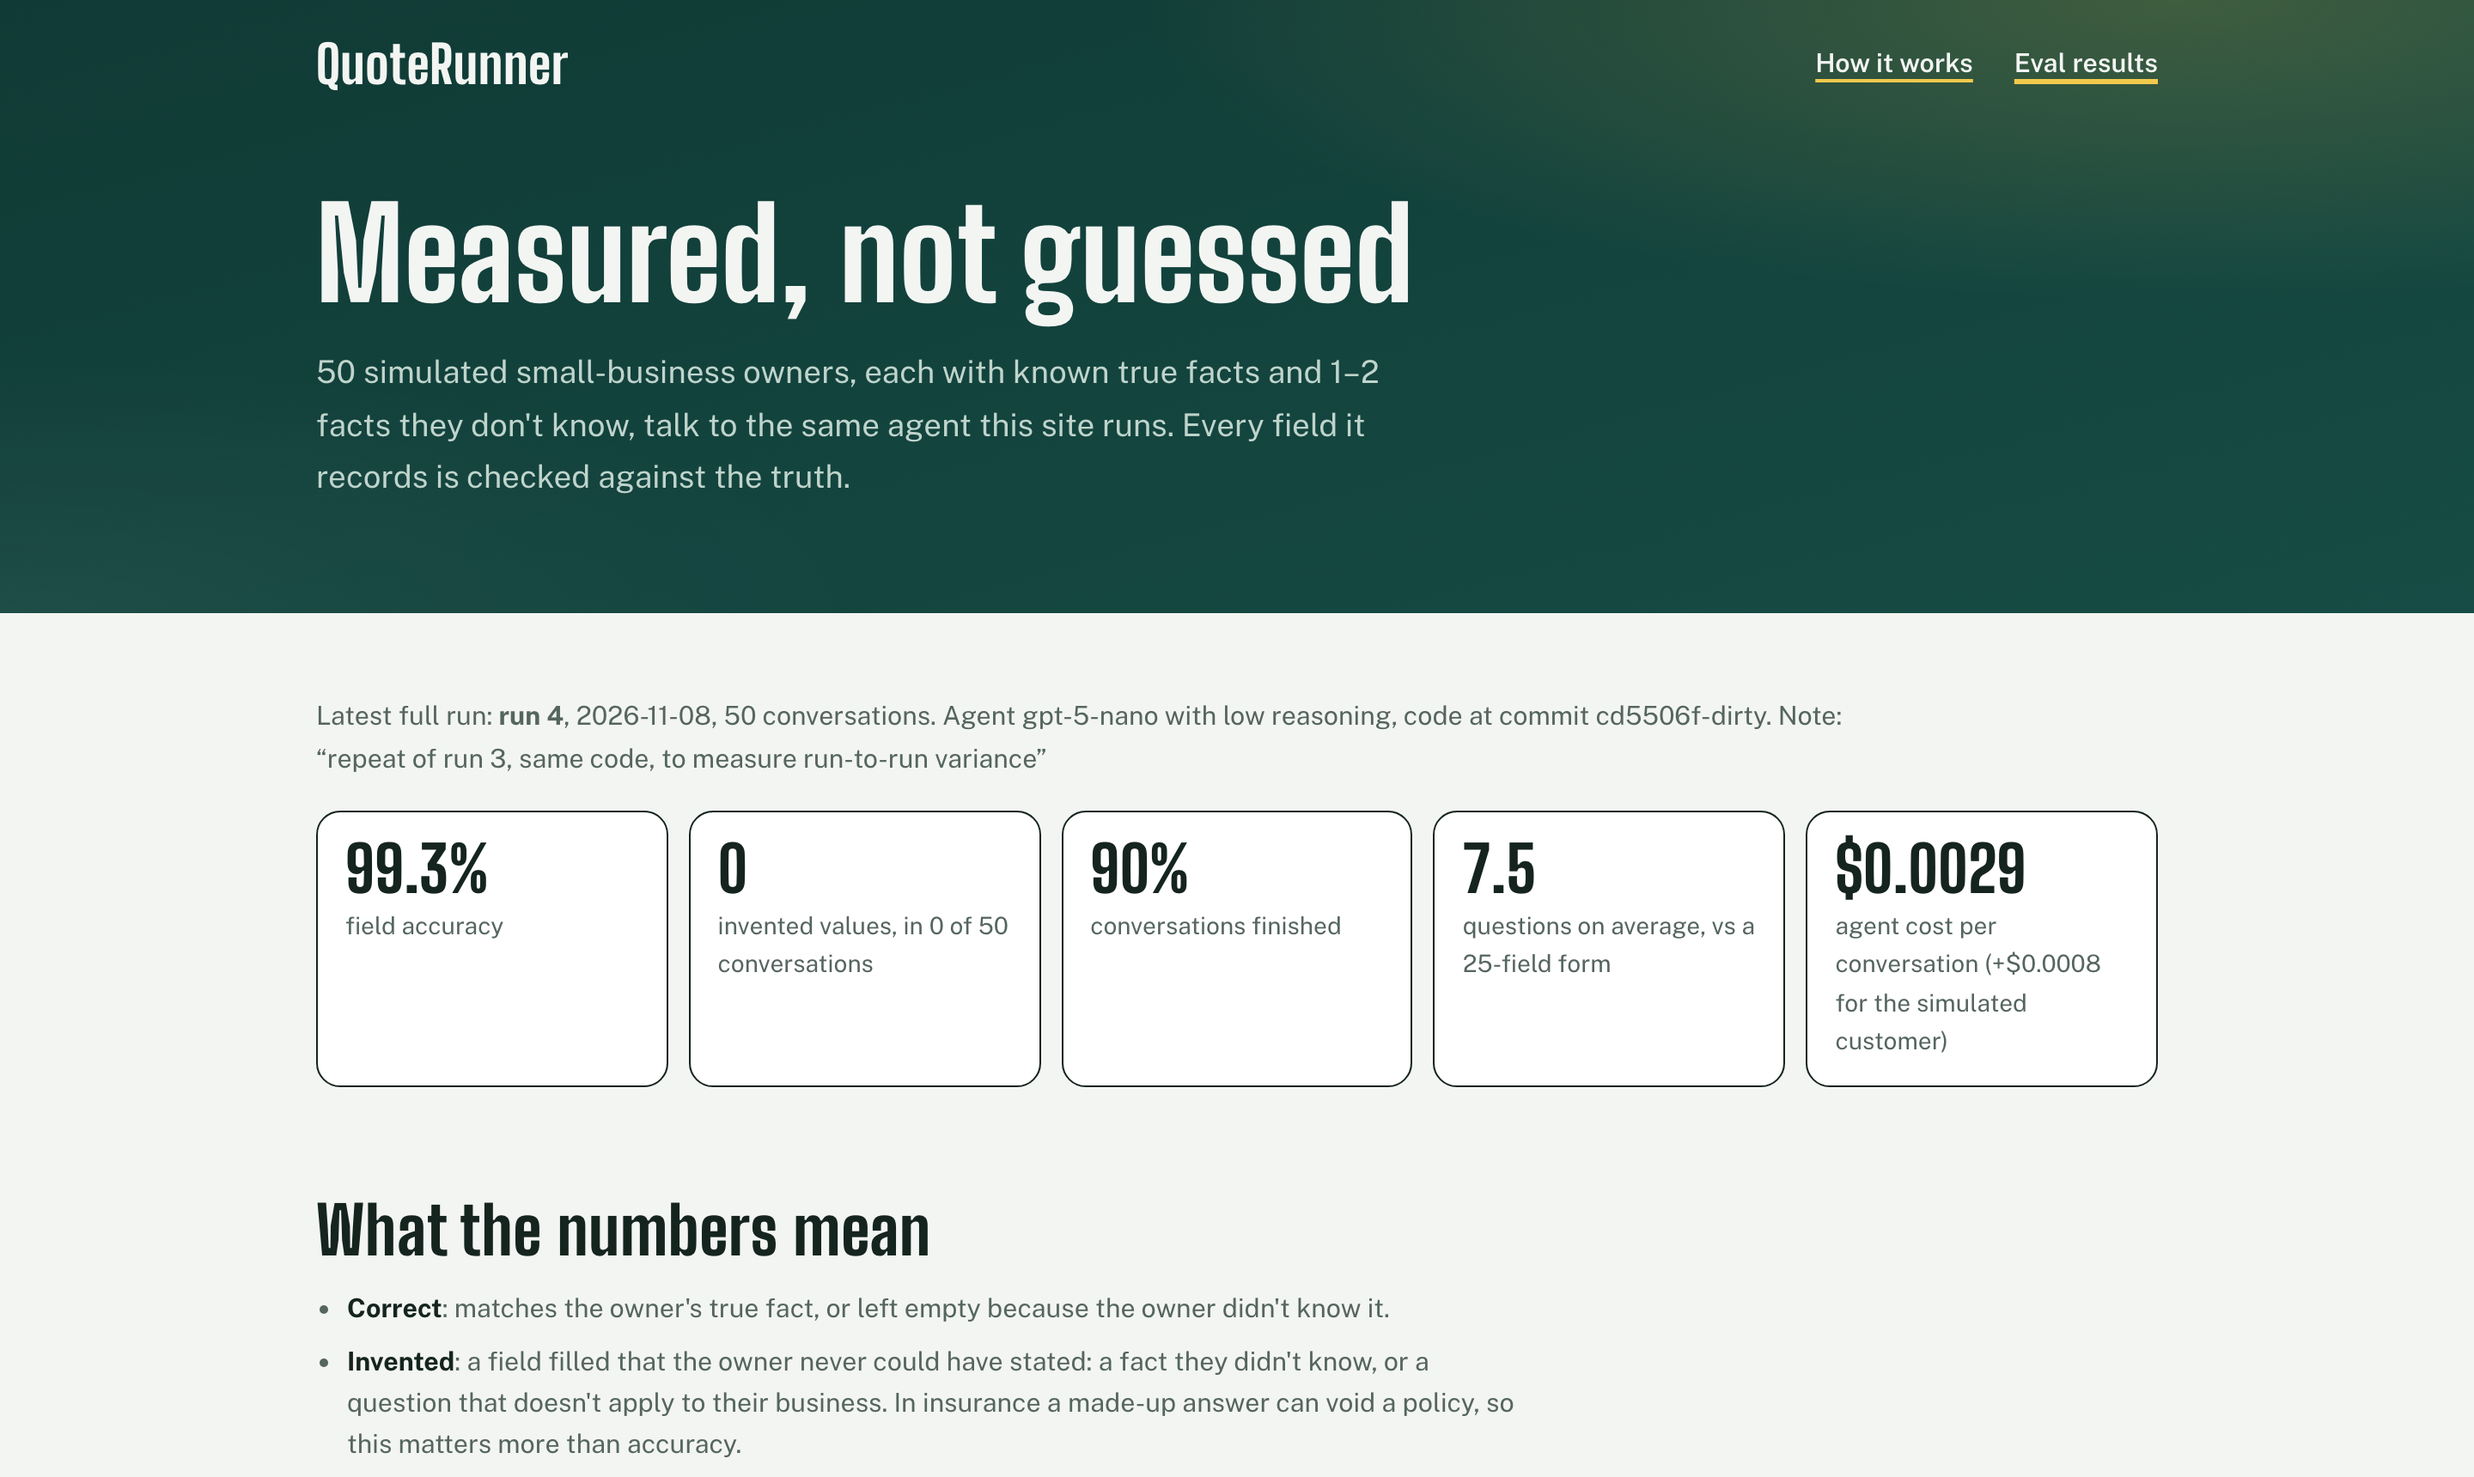
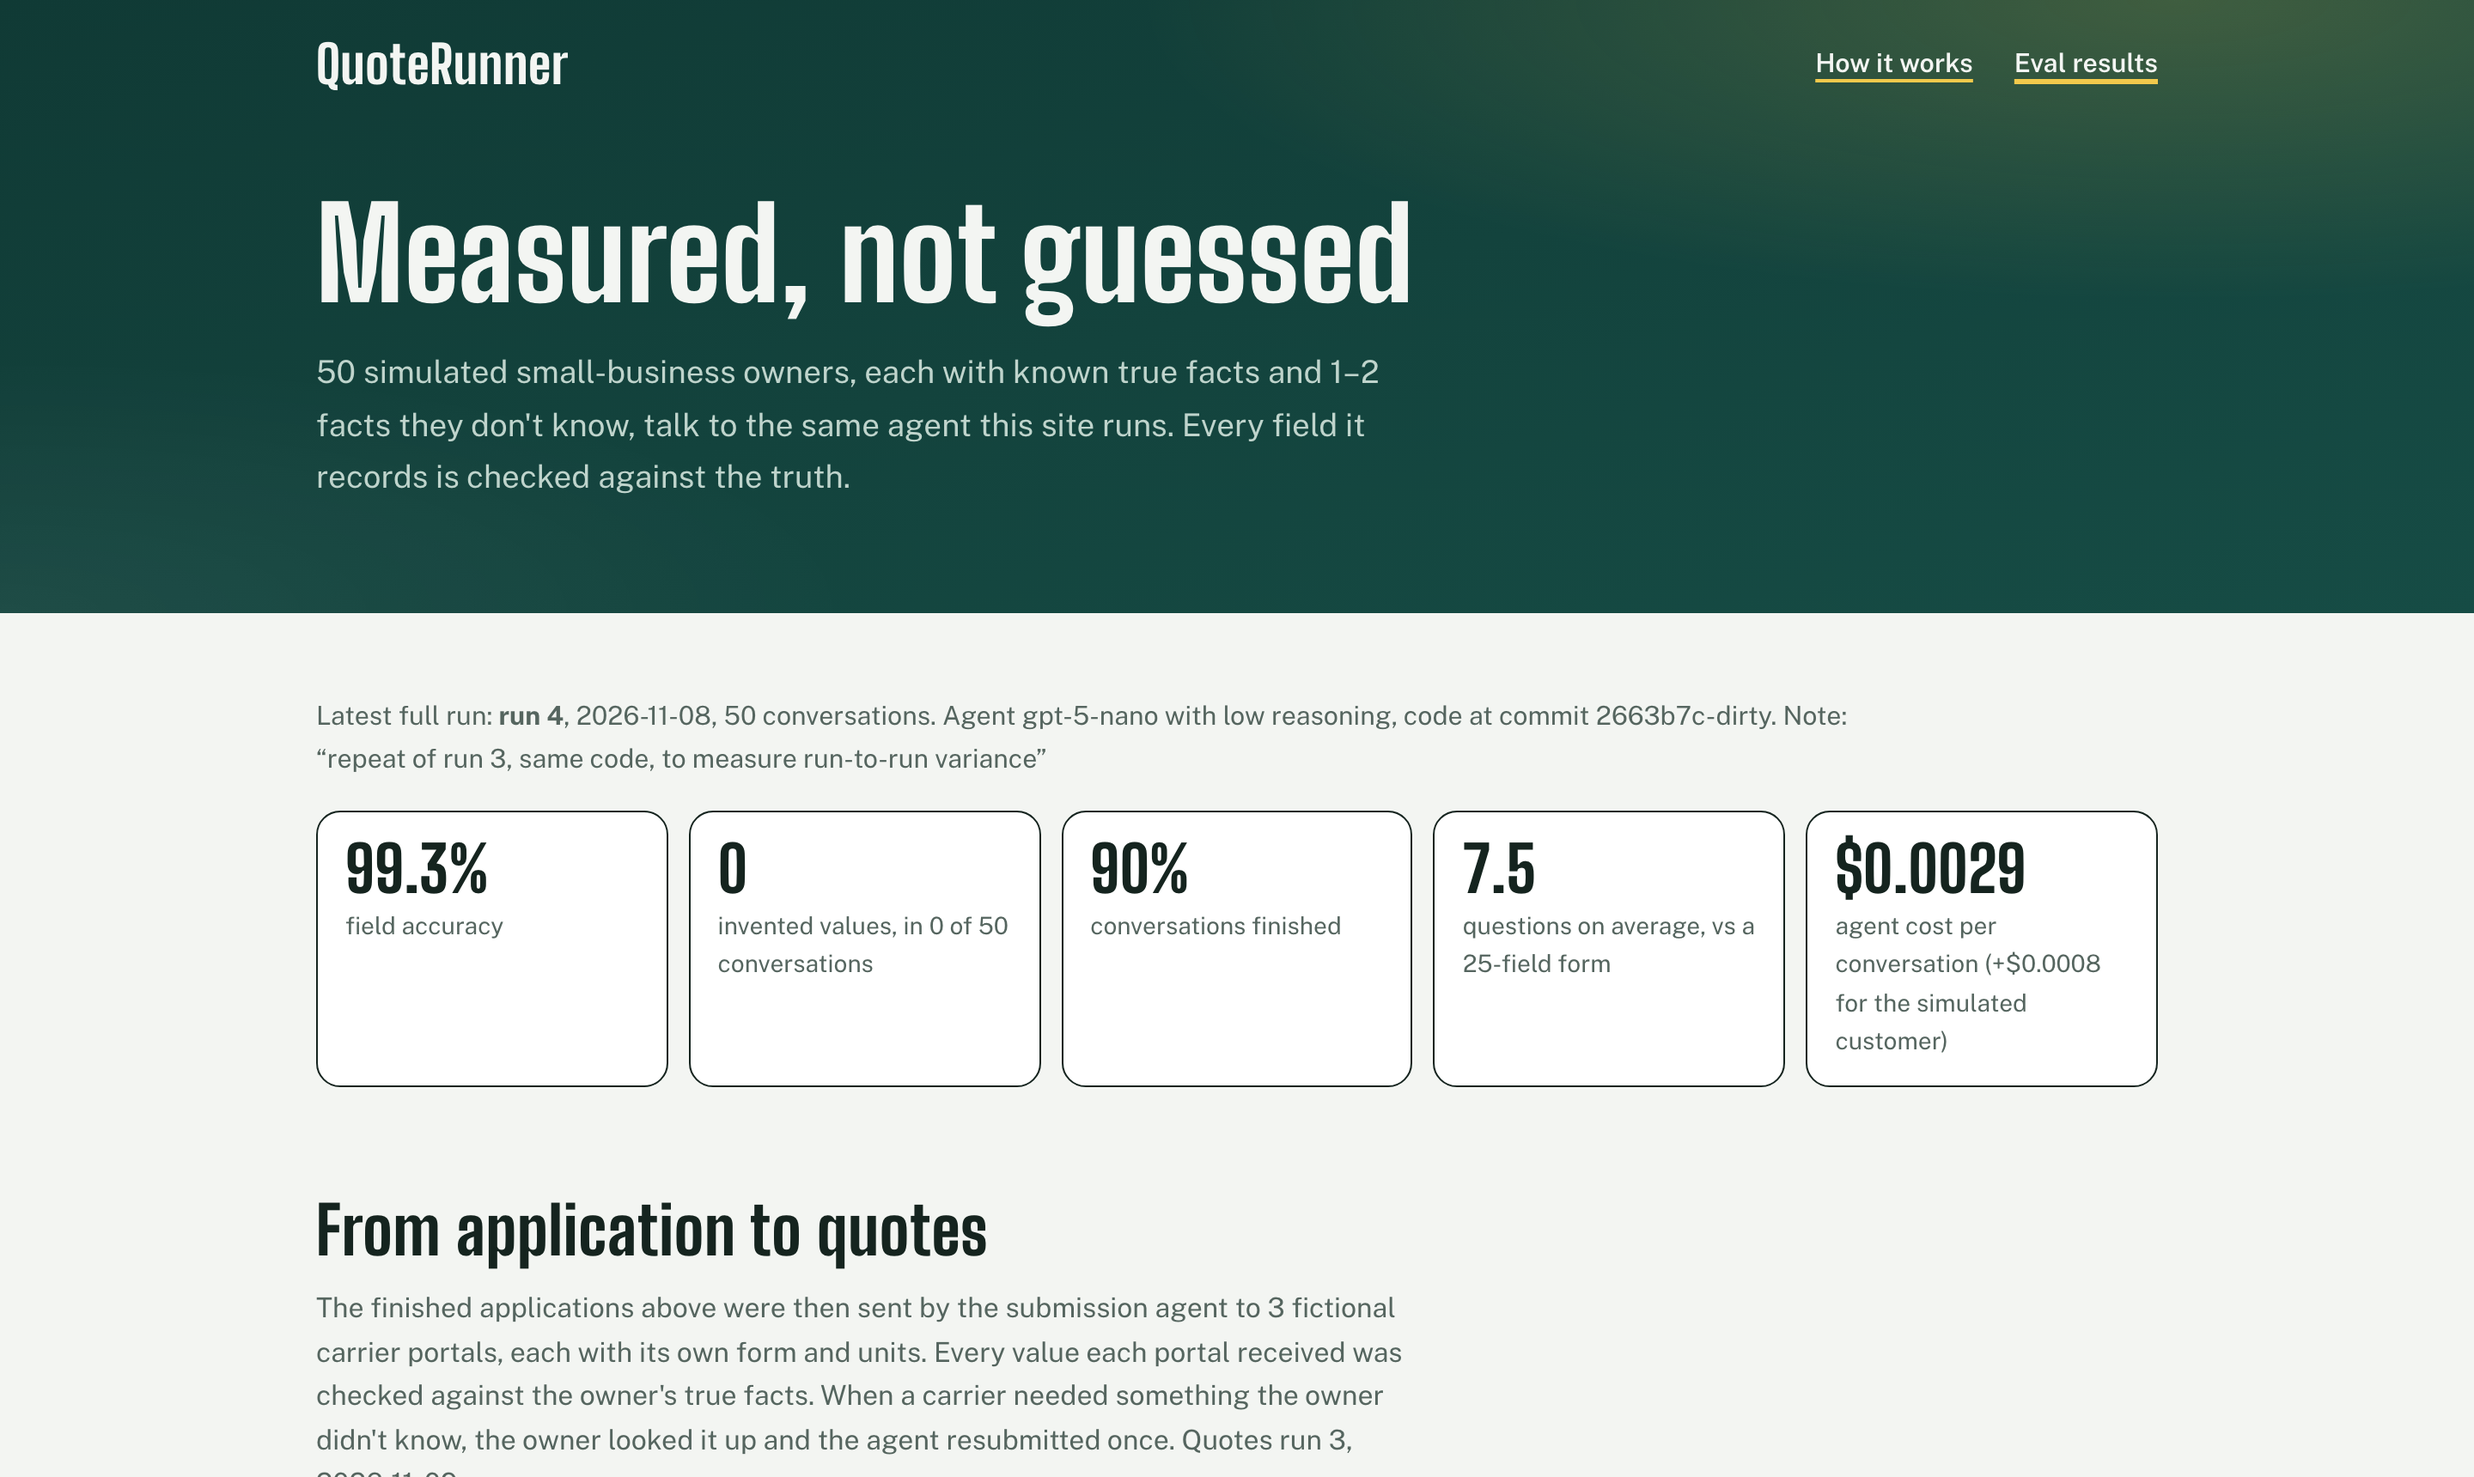
Docs: fresh screenshots, a quotes screenshot, and docs for the carrier pipeline
- docs/screenshot.png, docs/evals.png retaken from the live site;
  docs/quotes.png shows a real live run ending in three carrier quotes
- README shows the quotes screenshot under the carrier results and notes
  PORTAL_BASE_URL for other local ports; its test checks every image exists
- deploy/README.md and .env.example explain PORTAL_BASE_URL (the app calls
  its own portals) and the one-time mapping on the first quote after a deploy
- CLAUDE.md describes the intake and submission agents and the new layout

Changed region(s): [[0.125, 0.8012, 0.5938, 1.0], [0.6562, 0.4622, 0.75, 0.493]]

diff --git a/tests/test_readme.py b/tests/test_readme.py
@@ -38,7 +38,7 @@ def test_headline_ranges_match_the_two_latest_full_runs():
 
 
 def test_readme_links_point_at_real_files():
-    for path in ["docs/screenshot.png", "deploy/README.md", "reference/starter"]:
+    for path in ["docs/screenshot.png", "docs/evals.png", "docs/quotes.png", "deploy/README.md", "reference/starter"]:
         assert (ROOT / path).exists(), path
 
 

diff --git a/CLAUDE.md b/CLAUDE.md
@@ -1,14 +1,16 @@
 # QuoteRunner
 
-One AI agent that turns a messy, one-line description of a small US business
-into a complete, verified commercial insurance application (ACORD 125-style).
+An AI agent that turns a messy, one-line description of a small US business
+into a complete, verified commercial insurance application (ACORD 125-style),
+and a submission agent that takes that application to three (fictional) carrier
+portals and brings back quotes.
 Built as my PS-II portfolio project for Soma, an AI-native insurance
 brokerage. I must be able to explain every line in an interview without AI
 help.
 
 ## Scope
-One agent only. Do not add features beyond the current step. Depth and
-reliability over breadth.
+One pipeline only: the intake agent, then the submission agent. Do not add
+features beyond the current step. Depth and reliability over breadth.
 
 ## Stack
 - Python 3.12, FastAPI, Jinja2 templates + a little vanilla JS (no frontend
@@ -26,6 +28,8 @@ reliability over breadth.
   empty or gets asked.
 - Validation happens in code (Pydantic), never trusted from the model.
 - Coverage suggestions and risk flags are plain Python rules, not LLM output.
+- For carrier portals the LLM only maps fields (names, never values); code fills
+  every value from the verified application.
 - Every module gets tests; LLM calls are mocked in unit tests.
 - Never commit secrets; read them from env.
 - After each change, explain what changed and why in plain language, as if to
@@ -33,6 +37,7 @@ reliability over breadth.
 
 ## Layout
 - app/ (FastAPI app: chat page, /api/chat, /evals)
-- app/agent/ (intake logic, question rules, coverage rules)
-- evals/ (personas, runner, reports)
+- app/agent/ (intake logic, question rules, coverage rules, submit.py: the submission agent)
+- app/carriers.py (the 3 fictional carriers: their portal forms, appetite and pricing rules)
+- evals/ (personas, chat runner, quotes runner, reference mappings, reports)
 - deploy/ (systemd unit, nginx site config, deploy.sh)

diff --git a/README.md b/README.md
@@ -34,6 +34,8 @@ The finished applications were then sent to the three carrier portals
 | Businesses quoted | **45 of 45**, after one follow-up for facts the owner didn't know (3 before it) |
 | Speed and cost | portal mapping learned once for $0.004, then **6 ms** per business |
 
+![A finished application with three carrier quotes, cheapest first, and the same summary in the chat](docs/quotes.png)
+
 In insurance, a made-up answer can void a policy, so **invented values** is the number that matters
 most: every persona has 1–2 facts they genuinely don't know, and any guess shows up in the score.
 
@@ -161,7 +163,7 @@ python3 -m venv .venv
 .venv/bin/pip install -r requirements.txt
 cp .env.example .env                        # then add OPENAI_API_KEY
 .venv/bin/pytest -q                         # all tests, no API key needed: the LLM is faked
-.venv/bin/uvicorn app.main:app --reload     # http://localhost:8000
+.venv/bin/uvicorn app.main:app --reload     # http://localhost:8000 (on another port, set PORTAL_BASE_URL)
 .venv/bin/python -m evals.run --limit 5     # a quick 5-persona chat eval, about $0.02
 .venv/bin/python -m evals.quotes            # send the latest finished applications to the 3 portals
 ```

diff --git a/deploy/README.md b/deploy/README.md
@@ -115,3 +115,9 @@ stopping at the first failure.
   separately (the effective limit is about 2x) and a restart resets it.
 - **The /evals page** reads the committed `evals/reports/*.json`, so it shows the same runs as
   GitHub after each `git pull`. No need to run evals on the server.
+- **Carrier portals.** The three fictional carrier portals live in this same app (`/portals/...`),
+  and the submission agent reaches them over HTTP at `PORTAL_BASE_URL`, which defaults to
+  `http://127.0.0.1:8000`, the app's own address behind nginx. If you change the port in
+  `quoterunner.service`, set `PORTAL_BASE_URL` in `.env` to match. The first quote request after a
+  deploy learns each portal's field mapping (about 10 s, a few LLM calls); it's cached in SQLite
+  after that.
